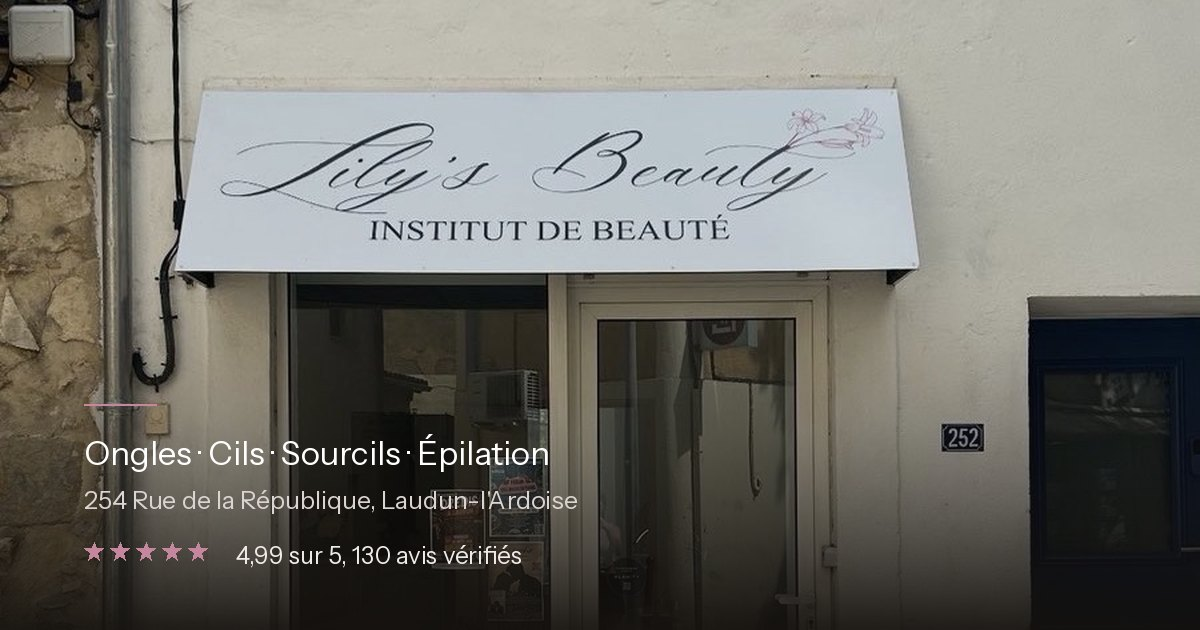
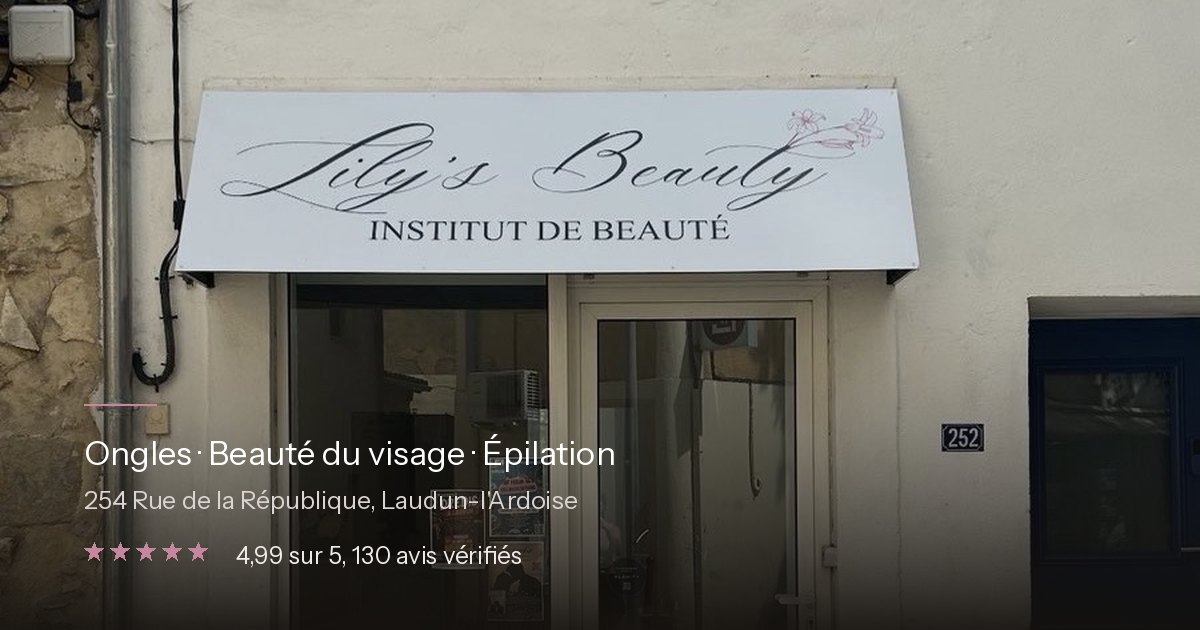
Add the salon gallery, the real hours, and the new headline
Five things.

The status card is redesigned, which is what makes the flower work on a
phone. It used to float 175px tall beside a 383px list of days, and the
ornament sat in the gap below — a gap that only exists on a wide screen,
so phones got nothing. Stretched to match the list, the card becomes a
panel and the emptiness moves inside it, where "C'est ouvert." is 156px
wide in a card at least 350 wide. The flower lives there now and shows
at every width. Measured: all three lines of the card still sit on plain
white, 5.49:1 and 17.39:1.

The headline is now "Ongles, beauté du visage et épilation". The share
card followed, so it no longer lists the old grouping.

They are sisters, and say so twice: once above the fold, once in the
block that introduces them.

The opening hours are the real ones at last — 9h30 to 19h30 Monday to
Friday, 8h to 12h on Saturday, closed Sunday. Checked through the
open/closed script at four moments, including Saturday afternoon, which
correctly announces Monday rather than Sunday.

And four photographs of the inside: the two cabins, the manicure desk,
the waiting corner. They sit between the hours and the booking block —
you show the place before asking someone to book it, not after. Four
portraits in a row on a wide screen, two by two on a phone, lazily
loaded so the largest paint does not move (1064ms, unchanged).

scripts/prepare-galerie.py resizes them and rewrites them from their
[…]

Changed region(s): [[0.1542, 0.6937, 0.5242, 0.754]]

diff --git a/src/styles/global.css b/src/styles/global.css
@@ -967,12 +967,6 @@ section {
   margin-block: 5px 12px;
 }
 
-#horaires {
-  position: relative;
-  overflow: hidden;
-  overflow: clip;
-}
-
 #tarifs {
   background: var(--shell);
   position: relative;
@@ -1006,7 +1000,6 @@ section {
    ═══════════════════════════════════════════════════════════════ */
 #tarifs::before,
 #reserver::before,
-#horaires::before,
 .legal::before {
   content: '';
   position: absolute;
@@ -1019,7 +1012,6 @@ section {
 }
 #tarifs > .shell,
 #reserver > .shell,
-#horaires > .shell,
 .legal > .shell {
   position: relative;
   z-index: 1;
@@ -1053,21 +1045,6 @@ section {
   mask-image: url('/motif-lys-branche.png');
 }
 
-/* La fleur seule, dans le bloc des horaires. Seul emploi qui ne déborde
-   pas d'un bord : la grille des jours est haute à gauche, la carte « en
-   ce moment » courte à droite, et il reste dessous un vide franc que
-   rien ne remplit. L'ornement y est posé, pas accroché à un angle. */
-#horaires::before {
-  right: clamp(24px, 6vw, 96px);
-  bottom: clamp(18px, 4vw, 54px);
-  width: clamp(150px, 22vw, 290px);
-  aspect-ratio: 520 / 426;
-  background: var(--ink);
-  opacity: 0.085;
-  -webkit-mask-image: url('/motif-lys-fleur.png');
-  mask-image: url('/motif-lys-fleur.png');
-}
-
 /* La fleur encore, sur les pages de texte — mentions légales et erreur.
    Elles n'ont ni photo ni couleur, et leur droite est vide à côté du
    titre. Une première version y posait la pointe du rameau, débordée
@@ -1084,19 +1061,10 @@ section {
   mask-image: url('/motif-lys-fleur.png');
 }
 
-/* Deux ornements ne survivent pas au passage en colonne, et c'est
-   logique : ils comblaient un vide que la mise en page large créait.
-
-   Les horaires empilent leur grille et leur carte sous 860 px ; le
-   quart bas-droit n'existe plus et la fleur se poserait en travers de
-   « c'est ouvert ». Les pages de texte deviennent une colonne dense
-   sans marge à droite. Dans les deux cas on retire plutôt qu'on
-   déplace : un ornement qui gêne la lecture a cessé d'en être un. */
-@media (max-width: 860px) {
-  #horaires::before {
-    display: none;
-  }
-}
+/* Les pages de texte deviennent une colonne dense sans marge à droite :
+   sous 1000 px le paragraphe d'introduction venait se poser sur la fleur
+   et tombait à 4,56:1, à six centièmes du seuil. On retire plutôt qu'on
+   déplace — un ornement qui gêne la lecture a cessé d'en être un. */
 /* Sous 1000 px, la colonne de texte des pages légales rejoint la fleur :
    mesuré, le paragraphe d'introduction passait dessus et son contraste
    tombait à 4,56:1, à six centièmes du seuil. Le paragraphe est déjà
@@ -1194,7 +1162,11 @@ section {
   display: grid;
   grid-template-columns: 1fr 1fr;
   gap: clamp(30px, 6vw, 84px);
-  align-items: start;
+  /* `stretch` et non `start` : la liste des sept jours fait 383 px, la
+     carte 175, et celle-ci flottait en haut d'une colonne aux deux tiers
+     vide. Étirée, elle devient un vrai panneau et le vide passe à
+     l'intérieur, là où on peut en faire quelque chose. */
+  align-items: stretch;
 }
 .hours {
   list-style: none;
@@ -1246,6 +1218,32 @@ section {
   border-radius: 14px;
   padding: 26px;
   background: var(--paper);
+  position: relative;
+  overflow: hidden;
+  overflow: clip;
+}
+/* La fleur du logo, posée dans la carte plutôt qu'à côté. Le texte y est
+   court — « C'est ouvert. » fait 156 px dans une carte qui en fait 350
+   au plus étroit — et ce vide-là ne disparaît pas quand la page passe en
+   colonne, contrairement à celui qui entourait la carte. L'ornement
+   tient donc aussi sur téléphone, sans rallonger la page d'un pixel. */
+.status::before {
+  content: '';
+  position: absolute;
+  right: -14px;
+  bottom: -10px;
+  width: clamp(122px, 46%, 260px);
+  aspect-ratio: 520 / 426;
+  background: var(--ink);
+  opacity: 0.1;
+  pointer-events: none;
+  z-index: 0;
+  -webkit-mask: url('/motif-lys-fleur.png') no-repeat center / contain;
+  mask: url('/motif-lys-fleur.png') no-repeat center / contain;
+}
+.status > * {
+  position: relative;
+  z-index: 1;
 }
 .status .big {
   font-family: var(--serif);
@@ -1263,6 +1261,40 @@ section {
 @media (max-width: 860px) {
   .hours-wrap {
     grid-template-columns: 1fr;
+  }
+}
+
+/* ── galerie : l'intérieur du salon ──
+   Posée entre les horaires et la réservation, et pas plus bas : on
+   montre l'endroit juste avant de demander de réserver, pas après.
+
+   Pas d'ornement ici. Les photos sont la décoration ; y ajouter un lys
+   serait la surcharge qu'on évite partout ailleurs. */
+#salon {
+  background: var(--shell);
+}
+.galerie {
+  list-style: none;
+  margin: clamp(28px, 4.5vw, 46px) 0 0;
+  padding: 0;
+  display: grid;
+  grid-template-columns: repeat(4, 1fr);
+  gap: clamp(10px, 1.5vw, 20px);
+}
+.galerie img {
+  display: block;
+  width: 100%;
+  height: auto;
+  /* Les quatre photos sortent du même téléphone et partagent donc le
+     même format. Le cadre l'impose quand même : une photo re-livrée en
+     carré ne doit pas casser l'alignement de la rangée. */
+  aspect-ratio: 9 / 16;
+  object-fit: cover;
+  border-radius: 12px;
+}
+@media (max-width: 860px) {
+  .galerie {
+    grid-template-columns: repeat(2, 1fr);
   }
 }
 

diff --git a/src/data/site.ts b/src/data/site.ts
@@ -112,6 +112,43 @@ export const about = {
   ],
 };
 
+/* ─────────────────────────── LA GALERIE ─────────────────────────
+   Photos de l'intérieur, dans l'ordre d'affichage. La clé correspond au
+   nom du fichier dans src/assets/ ; les images sont préparées par
+   scripts/prepare-galerie.py depuis les originaux de brand/.
+
+   `alt` n'est pas un titre : c'est la description lue à voix haute par
+   un lecteur d'écran, et ce qui s'affiche si l'image ne charge pas.
+   On y décrit ce qu'on voit, pas ce qu'on voudrait vendre.            */
+
+export const galerie = [
+  {
+    fichier: 'salon-1-attente.jpg',
+    alt: "Le coin d'attente : un canapé en bouclette crème avec un plaid rose, "
+      + "une grande lampe à abat-jour de lin, un mur framboise et un bahut peint en rose.",
+  },
+  {
+    fichier: 'salon-2-cabine-guirlande.jpg',
+    alt: 'Une cabine de soin : table d\'esthétique, lampe loupe en demi-lune, '
+      + 'rideau de guirlandes lumineuses au mur et suspension en rotin.',
+  },
+  {
+    fichier: 'salon-3-cabine-fenetre.jpg',
+    alt: 'La seconde cabine, près de la fenêtre : voilages clairs, mur rose, '
+      + 'miroir rond lumineux et commode blanche.',
+  },
+  {
+    fichier: 'salon-4-manucure.jpg',
+    alt: 'Le poste de manucure : plan de travail en bois clair, deux lampes '
+      + "d'architecte, lampes UV, et l'enseigne au néon « Les ongles de Fia ».",
+  },
+];
+
+export const galerieIntro = {
+  titre: 'Le salon',
+  lead: 'Deux cabines, un poste de manucure, et un canapé pour attendre.',
+};
+
 /* ─────────────────────────── HORAIRES ───────────────────────────
    `day` suit la convention JavaScript : 0 = dimanche … 6 = samedi.
    Heures en minutes depuis minuit (9 h 30 → 9 * 60 + 30).
@@ -122,12 +159,12 @@ export const hoursConfirmed = true;
 export type Day = { day: number; label: string; open: number | null; close: number | null };
 
 export const hours: Day[] = [
-  { day: 1, label: 'lundi', open: 9 * 60, close: 20 * 60 },
-  { day: 2, label: 'mardi', open: 9 * 60, close: 20 * 60 },
-  { day: 3, label: 'mercredi', open: 9 * 60, close: 20 * 60 },
-  { day: 4, label: 'jeudi', open: 9 * 60, close: 20 * 60 },
-  { day: 5, label: 'vendredi', open: 9 * 60, close: 20 * 60 },
-  { day: 6, label: 'samedi', open: 8 * 60, close: 17 * 60 },
+  { day: 1, label: 'lundi', open: 9 * 60 + 30, close: 19 * 60 + 30 },
+  { day: 2, label: 'mardi', open: 9 * 60 + 30, close: 19 * 60 + 30 },
+  { day: 3, label: 'mercredi', open: 9 * 60 + 30, close: 19 * 60 + 30 },
+  { day: 4, label: 'jeudi', open: 9 * 60 + 30, close: 19 * 60 + 30 },
+  { day: 5, label: 'vendredi', open: 9 * 60 + 30, close: 19 * 60 + 30 },
+  { day: 6, label: 'samedi', open: 8 * 60, close: 12 * 60 },
   { day: 0, label: 'dimanche', open: null, close: null },
 ];
 

diff --git a/scripts/prepare-galerie.py b/scripts/prepare-galerie.py
@@ -1,0 +1,50 @@
+#!/usr/bin/env python3
+"""
+Prépare les photos de l'intérieur du salon pour la galerie d'accueil.
+
+Les originaux sont les fichiers `brand/salon-*.jpg` livrés par le salon :
+des photos de téléphone en 1450 x 2576. On les réduit à la taille utile
+et on les réenregistre **sans métadonnées**.
+
+Ce second point n'est pas une précaution de principe. Un fichier sorti
+d'un téléphone embarque le modèle de l'appareil, la date de la prise et,
+selon les réglages, les coordonnées GPS du lieu. Ici la vérification n'a
+trouvé aucun GPS, mais publier une photo sans la relire est une
+habitude qui finit par coûter cher : Pillow n'écrit que ce qu'on lui
+donne, et on ne lui donne que les pixels.
+
+    pip install Pillow
+    python3 scripts/prepare-galerie.py
+"""
+import pathlib
+
+from PIL import Image
+
+SOURCE = pathlib.Path('brand')
+SORTIE = pathlib.Path('src/assets')
+LARGEUR = 900      # affichée à 280 px au plus, écrans à forte densité compris
+QUALITE = 84
+
+
+def main() -> None:
+    fichiers = sorted(SOURCE.glob('salon-*.jpg'))
+    if not fichiers:
+        raise SystemExit('aucun brand/salon-*.jpg')
+
+    for f in fichiers:
+        im = Image.open(f)
+        if im.width > LARGEUR:
+            im = im.resize((LARGEUR, round(im.height * LARGEUR / im.width)), Image.LANCZOS)
+
+        # Recréer l'image à partir des seuls pixels : rien ne suit.
+        propre = Image.frombytes(im.mode, im.size, im.tobytes())
+
+        out = SORTIE / f.name
+        propre.save(out, 'JPEG', quality=QUALITE, optimize=True, progressive=True)
+        reste = len(Image.open(out).getexif())
+        print(f'{out}  {propre.width}x{propre.height}  '
+              f'{out.stat().st_size / 1024:.0f} Ko  métadonnées restantes : {reste}')
+
+
+if __name__ == '__main__':
+    main()

diff --git a/scripts/generate-og.py b/scripts/generate-og.py
@@ -70,7 +70,7 @@ def main() -> None:
 
     d.line([(x0, 404), (x0 + 72, 404)], fill=ROSE, width=2)
 
-    d.text((x0, 432), 'Ongles · Cils · Sourcils · Épilation',
+    d.text((x0, 432), 'Ongles · Beauté du visage · Épilation',
            font=charger('instrument-sans-500-lat', 33), fill=(255, 255, 255))
 
     d.text((x0, 484), "254 Rue de la République, Laudun-l'Ardoise",

diff --git a/README.md b/README.md
@@ -64,7 +64,7 @@ npm run preview  # sert dist/ localement
 
 ### Scripts de génération
 
-Six scripts produisent des fichiers versionnés dans le dépôt. Ils ne
+Sept scripts produisent des fichiers versionnés dans le dépôt. Ils ne
 tournent **pas** au build : on les relance à la main quand la source
 change.
 
@@ -75,6 +75,7 @@ python3 scripts/generate-og.py                     # public/og.jpg
 python3 scripts/prepare-logo.py brand/logo-original.png   # src/assets/logo.png
 python3 scripts/prepare-motif.py brand/motif-lys-original.png  # public/motif-lys.png
 python3 scripts/prepare-hero.py                    # les deux photos du bandeau
+python3 scripts/prepare-galerie.py                 # src/assets/salon-*.jpg
 ```
 
 Dépendances : `pip install Pillow fonttools brotli numpy scipy`.
@@ -290,9 +291,13 @@ recherche locale.
 
 ## À faire ensuite
 
-1. **Photographies du travail réalisé.** Le site montre une façade et un
-   plan, jamais un ongle ni un regard. Sur ce métier, c'est ce qui
-   convertit — et les deux comptes Instagram en regorgent.
+1. **Photographies du travail réalisé.** La galerie montre désormais
+   l'intérieur — deux cabines, le poste de manucure, le coin d'attente —
+   mais toujours pas un ongle ni un regard. Sur ce métier, c'est ce qui
+   convertit, et les deux comptes Instagram en regorgent. Les déposer
+   dans `brand/` sous le nom `salon-*.jpg` et relancer
+   `scripts/prepare-galerie.py` suffit ; leur description s'écrit dans
+   `galerie` de `src/data/site.ts`.
 2. **Compléter les mentions légales** (tableau plus haut).
 3. **Obtenir le logo en vectoriel** (AI, EPS ou SVG). Le PNG fourni tient
    partout où il sert — en-tête et pied de page. Un vectoriel resterait
